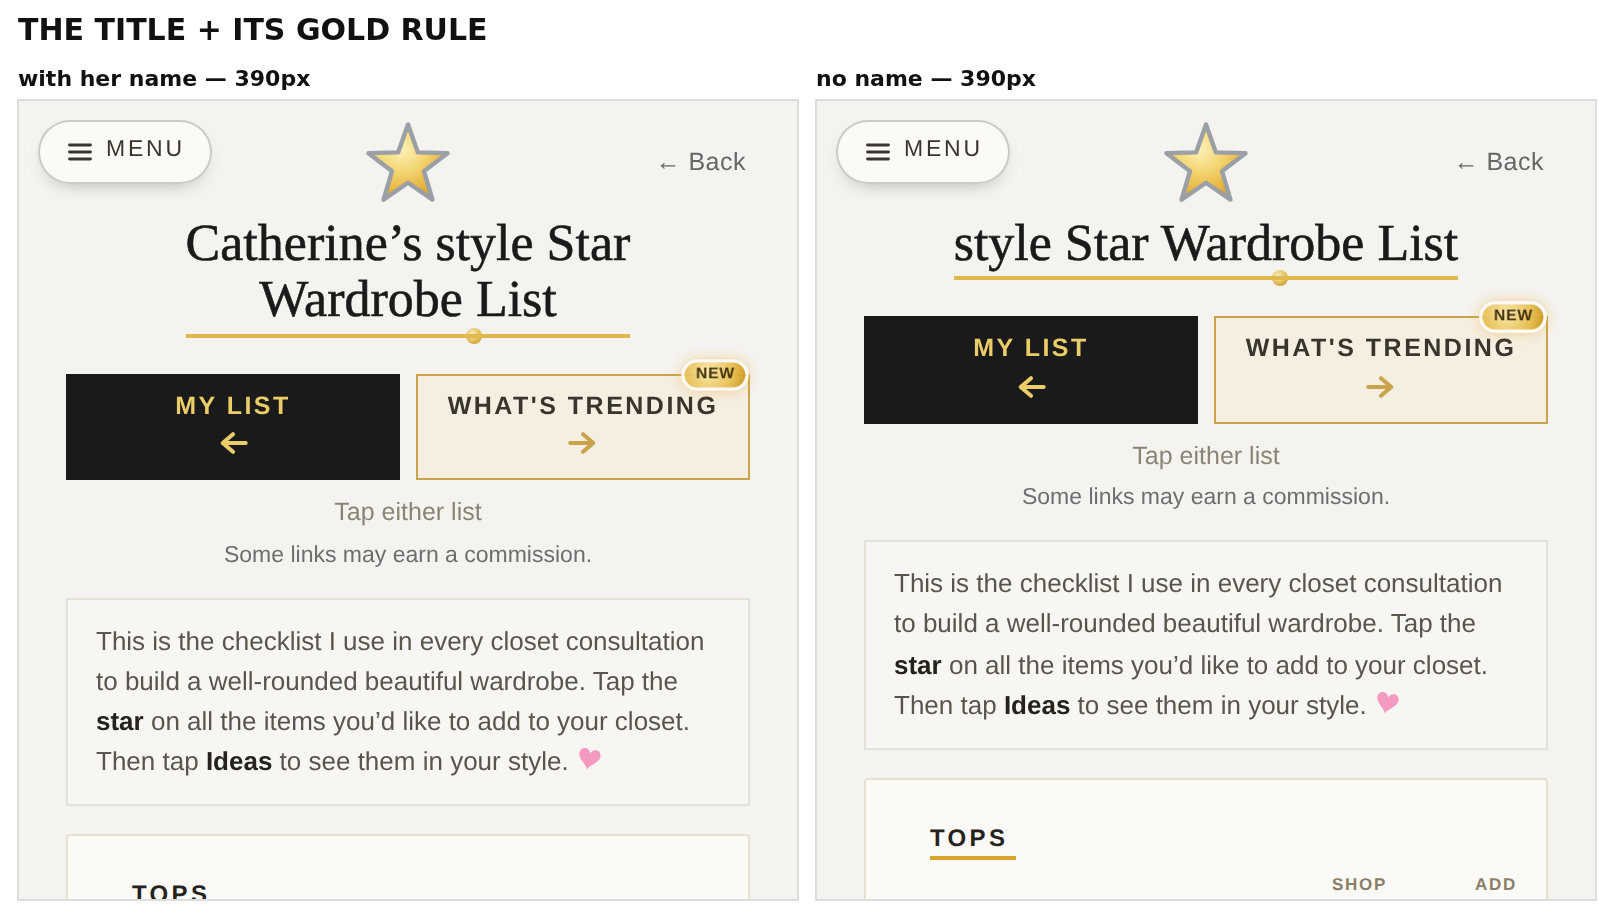
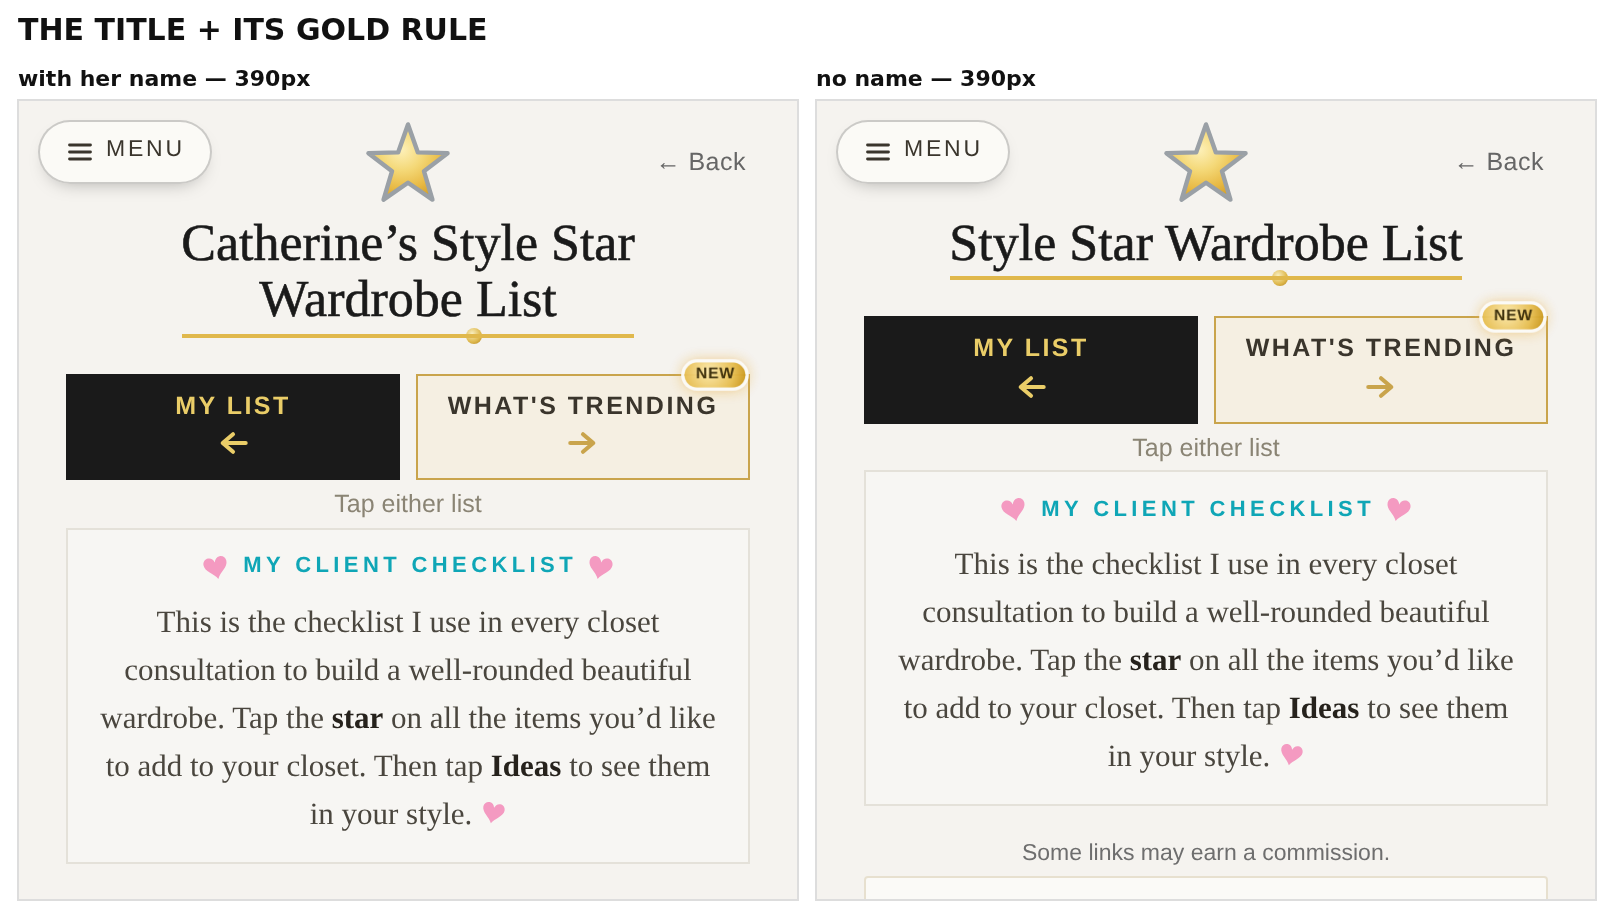
Style Star is capitalised where the name leads a phrase, and the stars come off the S (#910)
* Style Star is capitalised wherever the name leads a longer phrase

Jen Baxt's husband and teen daughter both read the wordmark as a mistake: "only
1 S was capitalized either both do or neither." Fresh eyes, and they were right
about half of it.

THE RULE THIS SETTLES, and it is sharper than logo-vs-prose. The lowercase
wordmark survives where the words stand ALONE as the mark: the Analyze and
Wishlist letterheads, and the logo images. It breaks the moment they are joined
to other title-cased words -- "Catherine's style Star Wardrobe List" is four
capitalised words with one lowercase one in the middle, and nothing there
signals a wordmark, so it reads as a missed capital.

Capitalised (5 places, 6 strings): the stylist chat header, the Mall sign, the
Edit title, the Wardrobe List title, and the personalised form that carries her
name. Also the two logo alt texts, which are read ALOUD to a person and are
therefore prose rather than a mark.

Left lowercase, deliberately: .ph-mast (x2) and .wl-mast, all three standalone.

It also brings the app into line with her filed trademarks and the Terms page,
which both say Style Star.

The chat header was her own idea originally, to mirror the logo. Raised with her
before changing it; her call to change it, as the phrase case.

Three stale code comments quoting the old form updated with it.

Claude-Session: https://claude.ai/code/session_017c8Fio4xdsedzHnBDF99ip
[…]

diff --git a/index.html b/index.html
@@ -501,7 +501,7 @@ html.edit-velvet,html.edit-velvet body{background:#0E7F8C}
    the absolutely-positioned remove ✕ hangs in. Net: ~22px more for item names. */
 #s-wardrobe{margin-left:-16px;margin-right:-16px}
 /* Top padding is small now that the brand name lives INSIDE the title itself
-   ("Catherine's style Star Wardrobe List") rather than in a sewn label
+   ("Catherine's Style Star Wardrobe List") rather than in a sewn label
    straddling this card's top edge. */
 #s-wardrobe .wdr-card{position:relative;background:#FBFAF7;border:1px solid #e7e0cf;border-radius:2px;padding:14px 8px 10px;margin-top:14px}
 #s-wardrobe .wdr-howto{font:400 15.5px/1.55 'Lora',Georgia,serif;color:#4a463e;background:#f7f6f3;border:1px solid #e4e1d9;padding:11px 14px;margin:2px 0 0;text-align:center}
@@ -1778,7 +1778,16 @@ body.menu-open .menu-panel{display:block}
 .dc-logo::after{content:"";position:absolute;left:0;right:0;bottom:3px;height:3px;background:#E0B84C}
 .dc-logo::before{content:"";position:absolute;bottom:0.5px;left:67%;width:10px;height:10px;border-radius:50%;background:radial-gradient(circle at 38% 34%,#F8EEC0,#DFB94E 58%,#AF811C);z-index:1}
 /* Style Star Edit: a little jewel star (gold with silver outline) pinned to the top-left corner */
-.dc-corner-star{position:absolute;top:-34px;left:-55px;width:70px;height:70px;transform:rotate(-57deg);z-index:20;filter:drop-shadow(0 2px 3px rgba(120,90,20,.28))}
+/* ⚠ MOVED 2026-08-22, HER CATCH, and it was measured on the DRAWN PATH not the
+   rotated bounding box (which overstates by ~25px at -57deg -- the 2026-08-07
+   lesson). The star's outline reached 10.3px INTO the S. It always overlapped a
+   little, and capitalising "Style Star Edit" made the collision read: a capital
+   is wider AND taller, so the letter grew toward the star from both sides.
+   ▶ Now 10.7px CLEAR. ⚠ Its two standing constraints were re-checked, not
+   assumed: it still does not touch the fixed MENU chip, and its left edge sits
+   at x=40 with the card's own edge far away. scratchpad/starmove.mjs re-runs
+   the sweep if this ever moves again. */
+.dc-corner-star{position:absolute;top:-40px;left:-67px;width:70px;height:70px;transform:rotate(-57deg);z-index:20;filter:drop-shadow(0 2px 3px rgba(120,90,20,.28))}
 /* a touch of the entry button's turquoise, and the "not AI" promise */
 .dc-tagline{display:flex;align-items:center;justify-content:center;gap:7px;font:700 11px/1 'Jost',sans-serif;letter-spacing:.2em;text-transform:uppercase;color:#0FA6B6;margin:14px 0 0;white-space:nowrap}
 /* ⚠ letter-spacing puts its space after the LAST letter too, so the right
@@ -2121,8 +2130,19 @@ body.card-fb{padding:0}
 #mallContent .mall-cat:first-child{margin-top:.8rem}
 .mall-sign{position:relative;background:#fff;border:3px solid #161616;padding:15px 16px 17px;margin:21px 0 6px;text-align:center;box-shadow:0 11px 26px -15px rgba(20,15,5,.6)}
 /* White+gold-outline star "light fixture", tilted, stuck onto the top-left corner of the sign (absolute, no layout shift) */
-.mall-fixture{position:absolute;top:-30px;left:-16px;width:116px;height:116px;z-index:6;pointer-events:none}
-.mall-fixture .mf-star{position:absolute;top:0;left:0;width:104px;height:104px;z-index:2;transform:rotate(-57deg)}
+/* ⚠ MOVED AND SHRUNK 2026-08-22, HER CATCH -- "especially Mall", and she was
+   right: measured on the drawn path, this star reached 19.1px into the S, twice
+   the Edit's overlap.
+   🚨 IT COULD NOT SIMPLY MOVE. Going UP hits the fixed MENU chip at the very
+   first step (every vertical candidate collided, measured). Going far enough
+   LEFT alone puts its outline 3px from the screen edge. So the star comes left
+   10px AND down from 104 to 88px, which clears the letter by 9.6px while
+   keeping its left edge at x=17 -- still mounted on the sign's corner like a
+   fixture, which is the whole idea, rather than floating off it.
+   ⚠ The 116px BOX is unchanged on purpose: it is the positioning frame, and
+   only .mf-star inside it was resized. */
+.mall-fixture{position:absolute;top:-30px;left:-26px;width:116px;height:116px;z-index:6;pointer-events:none}
+.mall-fixture .mf-star{position:absolute;top:0;left:0;width:88px;height:88px;z-index:2;transform:rotate(-57deg)}   /* 104 -> 88, see .mall-fixture above */
 .mall-sign-logo{font-family:'DM Serif Display',Georgia,serif;font-size:29px;color:#1a1a1a;-webkit-text-stroke:.6px #1a1a1a;display:inline-block;position:relative;padding-bottom:5px;letter-spacing:.01em}
 .mall-sign-logo::after{content:"";position:absolute;left:0;right:0;bottom:1px;height:3px;background:#E0B84C}
 .mall-sign-logo::before{content:"";position:absolute;bottom:-1.5px;left:66%;width:9px;height:9px;border-radius:50%;background:radial-gradient(circle at 38% 34%,#F8EEC0,#DFB94E 58%,#AF811C);z-index:1}
@@ -3295,7 +3315,7 @@ body.ss-play .hm-entrance{animation:ssOverlayOut .55s ease 1.6s forwards}
           <path fill="#FEF6D6" stroke="none" stroke-linejoin="round" stroke-linecap="round" d="M12 1.6L14.47 8.6L21.89 8.79L15.99 13.3L18.11 20.41L12 16.2L5.89 20.41L8.01 13.3L2.11 8.79L9.53 8.6Z"/></svg>
           <div class="wb-wordmark">
             <svg class="wb-mini-star" viewBox="0 0 24 24" aria-hidden="true"><path fill="#F2C43D" stroke="#B7BCC2" stroke-width="1.3" stroke-linejoin="round" d="M12 1.6L14.47 8.6L21.89 8.79L15.99 13.3L18.11 20.41L12 16.2L5.89 20.41L8.01 13.3L2.11 8.79L9.53 8.6Z"/></svg>
-            <div class="wb-word-wrap"><img class="wb-word-img go-home" src="logo-star-text.png" alt="style Star — tap for home" onclick="goHome()"></div>
+            <div class="wb-word-wrap"><img class="wb-word-img go-home" src="logo-star-text.png" alt="Style Star — tap for home" onclick="goHome()"></div>
           </div>
         </div>
         <div class="wb-port-motto" id="wbPortMotto"></div>
@@ -3484,7 +3504,7 @@ body.ss-play .hm-entrance{animation:ssOverlayOut .55s ease 1.6s forwards}
       <img class="ss-star-logo" src="logo-star.png" alt="Style Star">
       <div class="ss-wordmark">
         <svg class="ss-mini-star" viewBox="0 0 24 24" aria-hidden="true"><path fill="#F2C43D" stroke="#1a1a1a" stroke-width="0.7" stroke-linejoin="round" d="M12 1.6L14.47 8.6L21.89 8.79L15.99 13.3L18.11 20.41L12 16.2L5.89 20.41L8.01 13.3L2.11 8.79L9.53 8.6Z"/></svg>
-        <div class="ss-word-wrap"><img class="ss-word-img" src="logo-star-text.png" alt="style Star"></div>
+        <div class="ss-word-wrap"><img class="ss-word-img" src="logo-star-text.png" alt="Style Star"></div>
       </div>
     </div>
   </div>
@@ -4206,7 +4226,19 @@ body.ss-play .hm-entrance{animation:ssOverlayOut .55s ease 1.6s forwards}
           <polygon points="38,4 46,25 68,25 50.5,38.5 57.5,60 38,47 18.5,60 25.5,38.5 8,25 30,25" fill="#EC4899" stroke="#EC4899" stroke-width="2" stroke-linejoin="round"/>
         </svg>
         <div>
-          <div class="chat-hdr-title">style Star Stylist</div>
+          <!-- ⚠ "Style Star", CAPITALISED, and that is the rule not an oversight. The
+       lowercase wordmark survives where the words stand ALONE as the mark (the
+       Analyze and Wishlist letterheads, the logo images). It breaks the moment
+       they are joined to other title-cased words: "Catherine's style Star
+       Wardrobe List" is four capitalised words with one lowercase one in the
+       middle, and nothing there signals a wordmark, so it just reads as a
+       missed capital. ▶ HER CALL 2026-08-22, from Jen Baxt's husband and teen
+       daughter, who both read it as a typo: "only 1 S was capitalized either
+       both do or neither." Fresh eyes, and they were right about the phrases.
+       It also matches her filed trademarks and the Terms page, which both say
+       Style Star. GREP "style Star" -- anything still lowercase should be a
+       standalone mark. -->
+       <div class="chat-hdr-title">Style Star Stylist</div>
           <div class="chat-hdr-sub">Created with love by a real stylist<br><span class="s2">powered by AI</span></div>
         </div>
       </div>
@@ -4244,7 +4276,7 @@ body.ss-play .hm-entrance{animation:ssOverlayOut .55s ease 1.6s forwards}
 <div class="scr" id="s-dream">
   <div class="dc-wrap">
     <div class="top-back-wrap"><button class="top-back" onclick="closeDream()">&larr; Back</button></div>
-    <div class="dc-logo"><svg class="dc-corner-star" viewBox="0 0 24 24"><defs><radialGradient id="editStar" cx="42%" cy="34%" r="72%"><stop offset="0" stop-color="#FDF0B8"/><stop offset=".38" stop-color="#F4D877"/><stop offset=".72" stop-color="#E8B944"/><stop offset="1" stop-color="#CE9A26"/></radialGradient></defs><path fill="url(#editStar)" stroke="#9AA0A6" stroke-width="1.1" stroke-linejoin="round" d="M12 1.6L14.47 8.6L21.89 8.79L15.99 13.3L18.11 20.41L12 16.2L5.89 20.41L8.01 13.3L2.11 8.79L9.53 8.6Z"/></svg>style Star Edit</div>
+    <div class="dc-logo"><svg class="dc-corner-star" viewBox="0 0 24 24"><defs><radialGradient id="editStar" cx="42%" cy="34%" r="72%"><stop offset="0" stop-color="#FDF0B8"/><stop offset=".38" stop-color="#F4D877"/><stop offset=".72" stop-color="#E8B944"/><stop offset="1" stop-color="#CE9A26"/></radialGradient></defs><path fill="url(#editStar)" stroke="#9AA0A6" stroke-width="1.1" stroke-linejoin="round" d="M12 1.6L14.47 8.6L21.89 8.79L15.99 13.3L18.11 20.41L12 16.2L5.89 20.41L8.01 13.3L2.11 8.79L9.53 8.6Z"/></svg>Style Star Edit</div>
     <div class="dc-tagline"><svg class="pinkheart hl" viewBox="0 0 24 24"><path d="M12 21.6 C10.7 18.9 8.2 17 5.9 14.7 C3.6 12.4 2 10.4 2 7.7 C2 4.8 4.2 2.7 7 2.7 C9.5 2.7 11.3 4.6 12 7.1 C12.7 4.6 14.5 2.7 17 2.7 C19.8 2.7 22 4.8 22 7.7 C22 10.4 20.4 12.4 18.1 14.7 C15.8 17 13.3 18.9 12 21.6 Z"/></svg><span>Curated by Catherine</span><svg class="pinkheart" viewBox="0 0 24 24"><path d="M12 21.6 C10.7 18.9 8.2 17 5.9 14.7 C3.6 12.4 2 10.4 2 7.7 C2 4.8 4.2 2.7 7 2.7 C9.5 2.7 11.3 4.6 12 7.1 C12.7 4.6 14.5 2.7 17 2.7 C19.8 2.7 22 4.8 22 7.7 C22 10.4 20.4 12.4 18.1 14.7 C15.8 17 13.3 18.9 12 21.6 Z"/></svg></div>
     <div class="dc-subtitle">Everything here is selected by me. These are pieces I wear myself and recommend to clients. I hope you&rsquo;ll love them too <svg class="pinkheart" style="width:15px;height:15px;vertical-align:-2px" viewBox="0 0 24 24"><path d="M12 21.6 C10.7 18.9 8.2 17 5.9 14.7 C3.6 12.4 2 10.4 2 7.7 C2 4.8 4.2 2.7 7 2.7 C9.5 2.7 11.3 4.6 12 7.1 C12.7 4.6 14.5 2.7 17 2.7 C19.8 2.7 22 4.8 22 7.7 C22 10.4 20.4 12.4 18.1 14.7 C15.8 17 13.3 18.9 12 21.6 Z"/></svg></div>
 
@@ -4449,7 +4481,7 @@ body.ss-play .hm-entrance{animation:ssOverlayOut .55s ease 1.6s forwards}
         <div class="mall-fixture">
           <svg class="mf-star" viewBox="0 0 24 24"><path fill="#FFFFFF" stroke="#D8A52E" stroke-width="1.1" stroke-linejoin="round" stroke-linecap="round" d="M12 1L14.59 8.44L22.46 8.6L16.18 13.36L18.47 20.9L12 16.4L5.53 20.9L7.82 13.36L1.54 8.6L9.41 8.44Z"/></svg>
         </div>
-        <div class="mall-sign-logo">style Star Mall</div>
+        <div class="mall-sign-logo">Style Star Mall</div>
         <div class="mall-sign-sub">Enjoy shopping our favorite stores. These are the places we love, all in one&nbsp;spot.</div>
       </div>
       <div class="dc-disclosure">Style Star may earn a small commission from some links, at no extra cost to you. We only feature stores we genuinely love.</div>
@@ -4466,7 +4498,7 @@ body.ss-play .hm-entrance{animation:ssOverlayOut .55s ease 1.6s forwards}
     <!-- ⚠ Unique gradient id (wdrHeadStar): a shared id would resolve to a def
          inside a hidden screen, which Safari may refuse to paint. -->
     <svg class="wdr-headstar" viewBox="0 0 24 24" aria-hidden="true"><defs><radialGradient id="wdrHeadStar" cx="42%" cy="34%" r="72%"><stop offset="0" stop-color="#FDF0B8"/><stop offset=".38" stop-color="#F4D877"/><stop offset=".72" stop-color="#E8B944"/><stop offset="1" stop-color="#CE9A26"/></radialGradient></defs><path fill="url(#wdrHeadStar)" stroke="#9AA0A6" stroke-width="1.1" stroke-linejoin="round" d="M12 1.6L14.47 8.6L21.89 8.79L15.99 13.3L18.11 20.41L12 16.2L5.89 20.41L8.01 13.3L2.11 8.79L9.53 8.6Z"/></svg>
-    <div class="wdr-title" id="wdrTitle">style Star Wardrobe List</div>
+    <div class="wdr-title" id="wdrTitle">Style Star Wardrobe List</div>
   </div>
 
   <div class="wdr-tabs">
@@ -5049,7 +5081,7 @@ function show(id,skipHistory){
   if(onWel)try{_renderDiscoStar();}catch(e){}
   // Hide the shared global header logo on those screens — each shows its own instead.
   var hd=document.querySelector('.hdr');
-  // The Style Star Edit shows its own "style Star Edit" logo-title, so hide the shared logo there too.
+  // The Style Star Edit shows its own "Style Star Edit" logo-title, so hide the shared logo there too.
   if(hd)hd.style.display=(ownChrome||id==='s-dream'||id==='s-pref'||id==='s-pref-done'||id==='s-shopstyle'||id==='s-shop'||id==='s-faq'||id==='s-privacy'||id==='s-terms'||id==='s-contact'||id==='s-a2hs'||id==='s-wardrobe'||id==='s-wishlist'||id==='s-sharelist')?'none':'';
   var card=document.querySelector('.ss');
   // Square the full card on the curtain/dark full-bleed screens and the
@@ -9495,15 +9527,15 @@ function openWardrobe(tab){
     // rule came out 269/256/244px -- sized by the SCREEN instead of by the
     // words, sticking out 60px past the last line. A forced break makes the
     // block's max-content the widest LINE (222px), so it hugs the text and the
-    // rule is the same length on every phone. Break after "style Star" so the
+    // rule is the same length on every phone. Break after "Style Star" so the
     // brand name never splits.
     ttl.textContent='';
     if(_fn){
-      ttl.appendChild(document.createTextNode(_fn+'’s style Star'));
+      ttl.appendChild(document.createTextNode(_fn+'’s Style Star'));
       ttl.appendChild(document.createElement('br'));
       ttl.appendChild(document.createTextNode('Wardrobe List'));
     }else{
-      ttl.textContent='style Star Wardrobe List';
+      ttl.textContent='Style Star Wardrobe List';
     }
   }
   // The founder's-voice line now opens the single how-to paragraph under the
